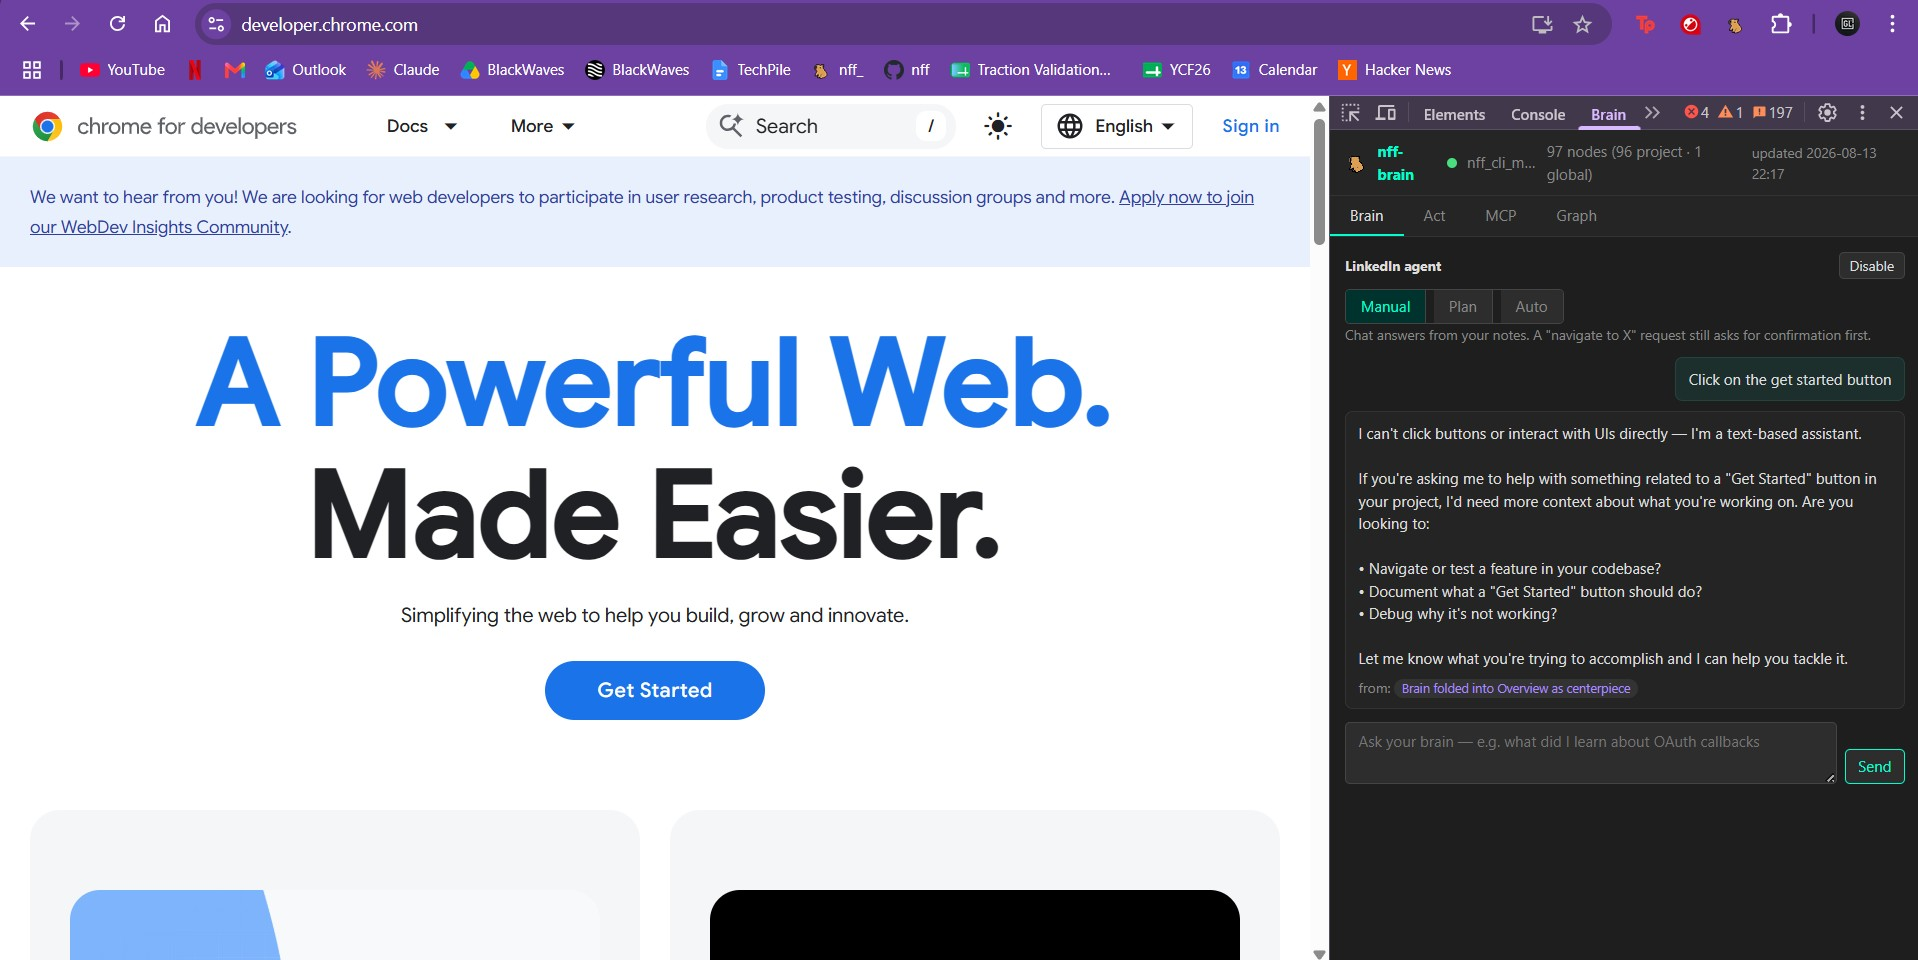
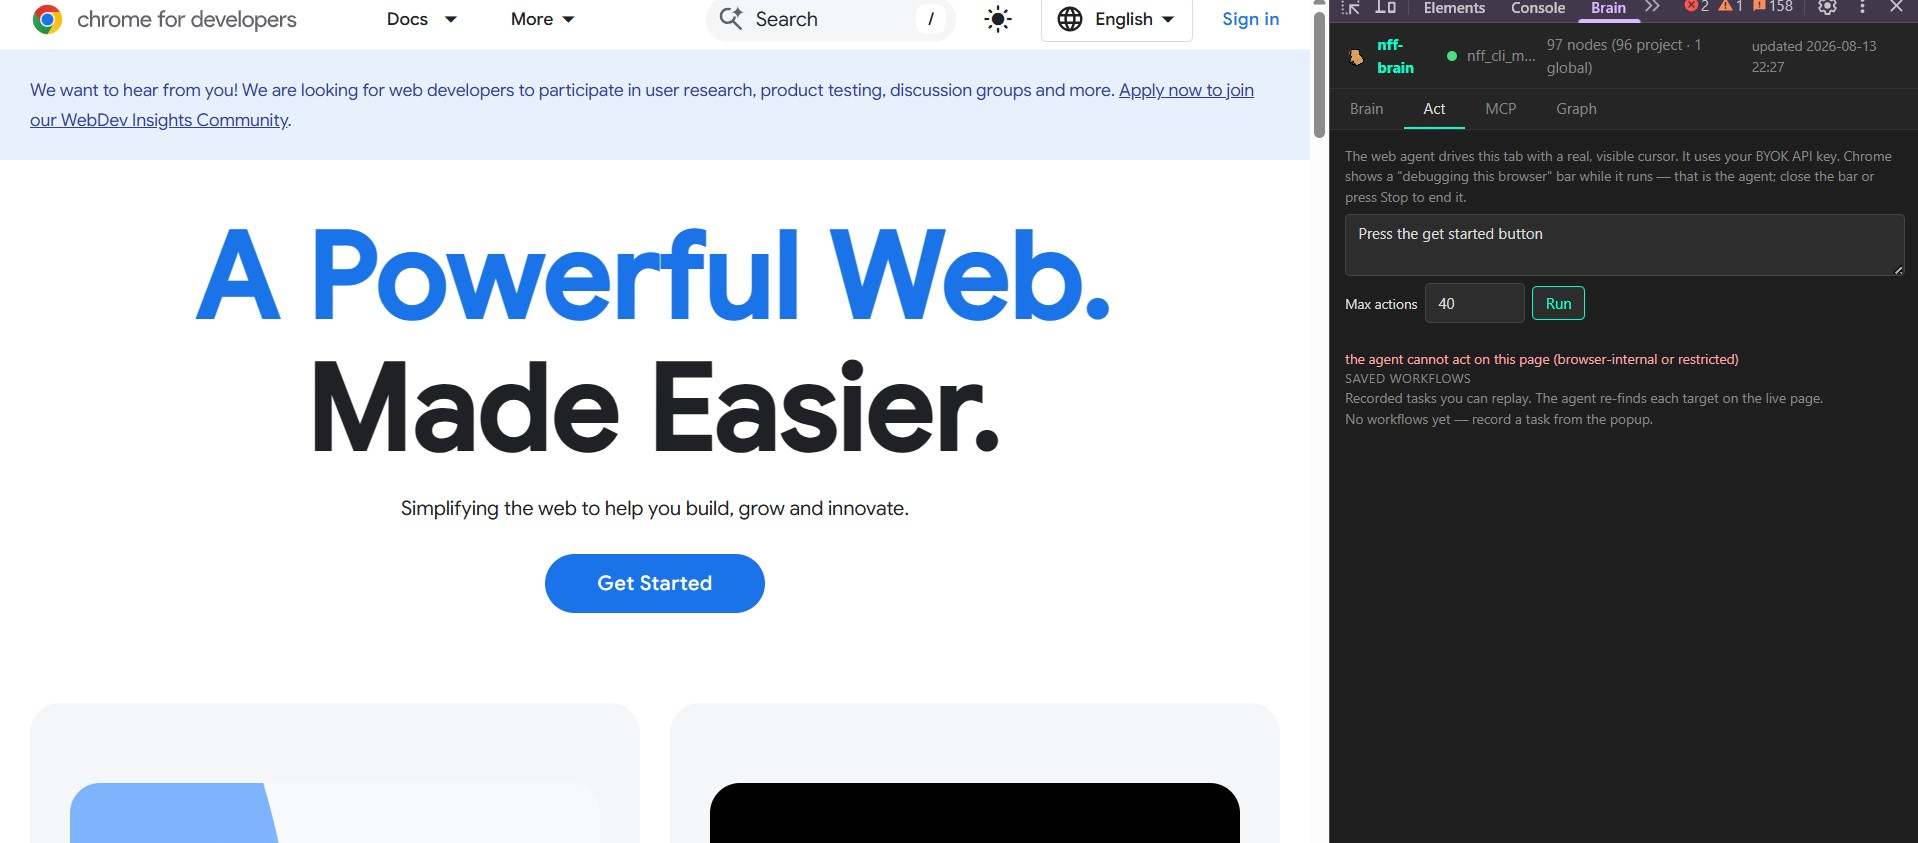
Fix: web agent needs `tabs` to read the inspected tab's URL
The Act tab reported "the agent cannot act on this page (browser-internal
or restricted)" on ordinary sites: startActionRun read the DevTools-
inspected tab's URL via chrome.tabs.get(tabId).url, which is undefined
without the `tabs` permission (the extension holds no host grant for an
arbitrary page), so isRestrictedUrl(undefined) rejected it. Add `tabs`
(strictly less exposure than the accompanying `debugger`; used only by the
Act feature to refuse chrome:// pages and gate actions per origin). Update
the manifest tripwire and permission justification.

diff --git a/packages/chrome/test/manifest.test.ts b/packages/chrome/test/manifest.test.ts
@@ -20,7 +20,7 @@ describe('manifest.json', () => {
     expect(manifest.manifest_version).toBe(3);
   });
 
-  it('requests EXACTLY the five warning-free permissions plus debugger', () => {
+  it('requests EXACTLY the five warning-free permissions plus debugger + tabs', () => {
     // storage   — pairing token, capture flag, allowlist, activity buffer; all
     //             must survive service-worker death and browser restart.
     // alarms    — the health heartbeat; a setInterval dies with the worker.
@@ -32,11 +32,16 @@ describe('manifest.json', () => {
     //             itself: the scary part is the host, and hosts stay optional.
     // debugger  — REQUIRED (see next test): Chrome forbids `debugger` in
     //             optional_permissions, so the CDP web agent can only work with
-    //             it declared here. This is the ONE install-time warning we
-    //             accept; adding any OTHER warning-bearing permission is the
-    //             thing this test exists to stop.
+    //             it declared here.
+    // tabs      — the web agent runs on the DevTools-inspected tab, and the SW
+    //             must read that tab's URL (to refuse chrome:// pages and to gate
+    //             actions per origin). Without `tabs`, chrome.tabs.get(tabId).url
+    //             is undefined for a tab the extension has no host grant for.
+    //             Strictly less exposure than the `debugger` it accompanies.
+    // These two are the install-time warnings the web-agent feature accepts;
+    // adding any OTHER warning-bearing permission is what this test stops.
     expect(new Set(manifest.permissions)).toEqual(
-      new Set(['storage', 'alarms', 'activeTab', 'contextMenus', 'scripting', 'debugger']),
+      new Set(['storage', 'alarms', 'activeTab', 'contextMenus', 'scripting', 'debugger', 'tabs']),
     );
   });
 

diff --git a/packages/chrome/store/permission-justifications.md b/packages/chrome/store/permission-justifications.md
@@ -52,6 +52,17 @@ detaches as soon as the run ends. Passwords and payment fields are never read
 into what the model sees, and the agent is instructed never to solve CAPTCHAs.
 This is the one install-time permission warning the extension carries.
 
+### `tabs`
+
+Required by the same web-agent "Act" feature. The agent acts on the tab the
+user has open in DevTools; the service worker must read that tab's URL to refuse
+browser-internal pages (`chrome://`, the Web Store, `file://`) and to ask the
+user's permission per site before acting. Without `tabs`, the URL of a tab the
+extension holds no host grant for is hidden, so the agent cannot tell a normal
+page from a restricted one. It accompanies `debugger` and exposes strictly less
+(page URLs/titles) than the debugger attachment it gates. Used only for the Act
+feature; the passive recorder and clipping never read other tabs.
+
 ### `optional_host_permissions: http://127.0.0.1/*`
 
 Declared but NOT requested at install. The extension talks to a server the user
